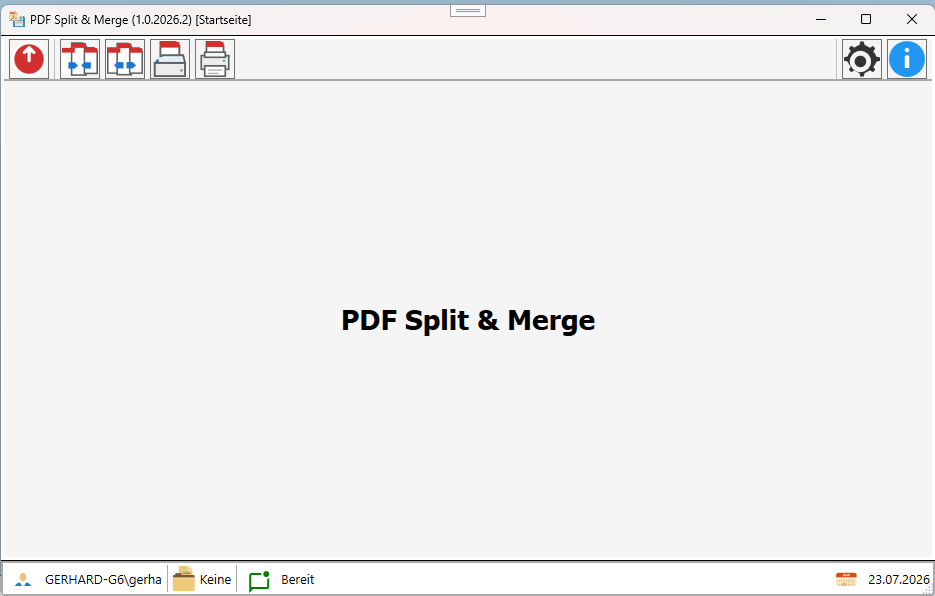
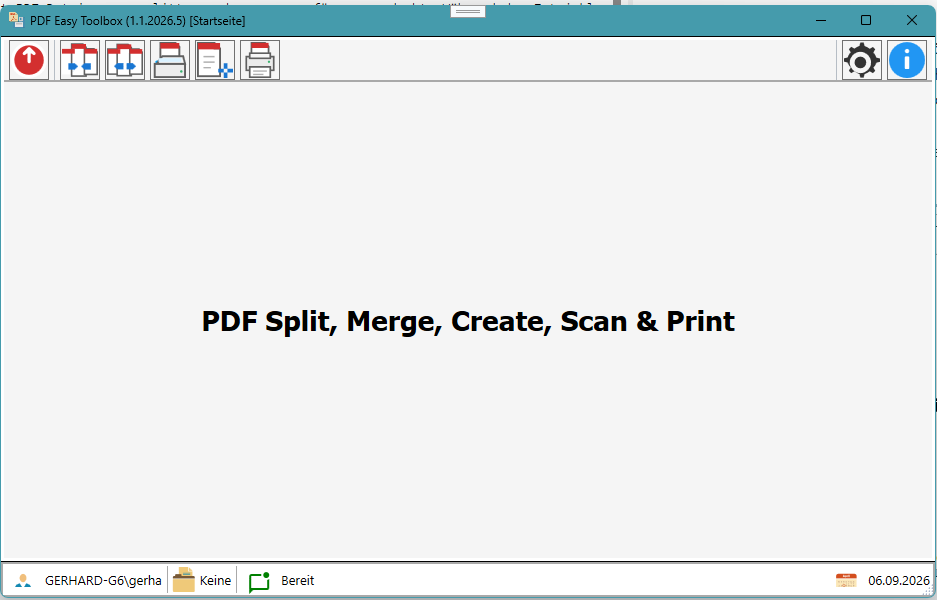
Release 1.1.2026.5 Images als PDF Datei erstellen

Changed region(s): [[0.0, 0.0, 1.0, 1.0], [0.2171, 0.5134, 0.8064, 0.5738]]

diff --git a/README.md b/README.md
@@ -39,6 +39,10 @@ Das Scannnen erfolgt über WIA (Windows Image Acquisition) und hat somit keinen 
 WIA Ist COM-basiert, funktioniert mit vielen Scannern, hat aber auch seine Tücken für Netzwerk Scanner. Vor allem ist es schwer zu prüfen, ob eine Scanner auch tatsächlich betriebsbereit ist.
 ![Scan Dialog](ScanPDF.png)
 
+## Erstellen von PDF Dokumenten
+Über diesen Dialog können aus verschiedenen Bilddateien (jpg, png, bmp, tif) ein PDF Dokument erstellt werden. Die Reihenfolge der Bilder kann über Drag&Drop verändert werden.
+![Create Dialog](CreatePDF.png)
+
 # Hinweis
 Ein bearbeiten der PDF Datei (auch Notizen und Markierungen) ist mit diesem Tool nicht möglich. Es können nur PDF Dateien zusammengeführt, gesplittet oder extrahiert werden werden.
 # zusätzliche NuGet-Pakete
